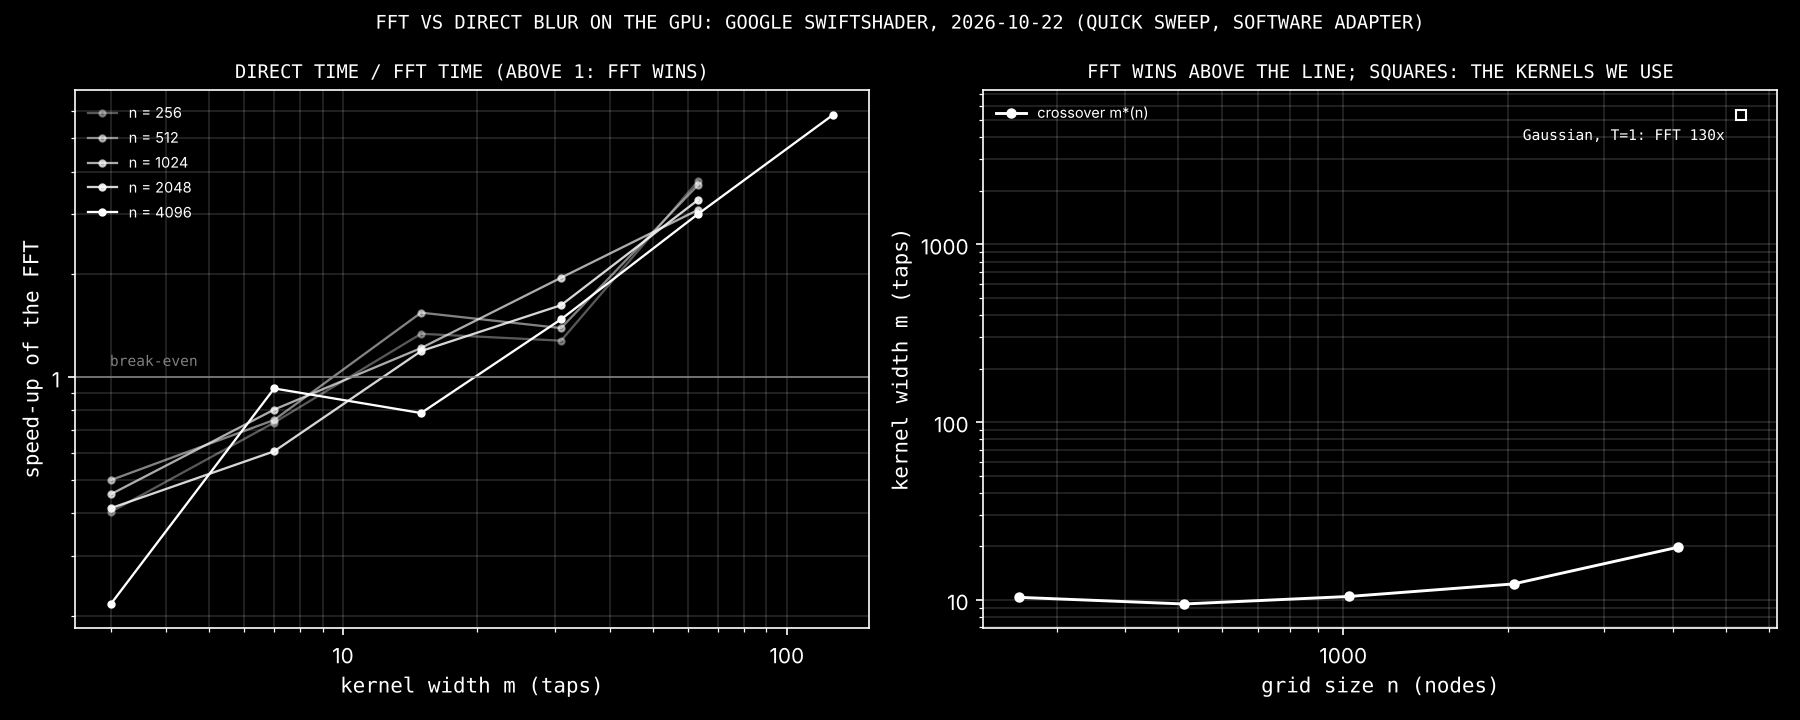
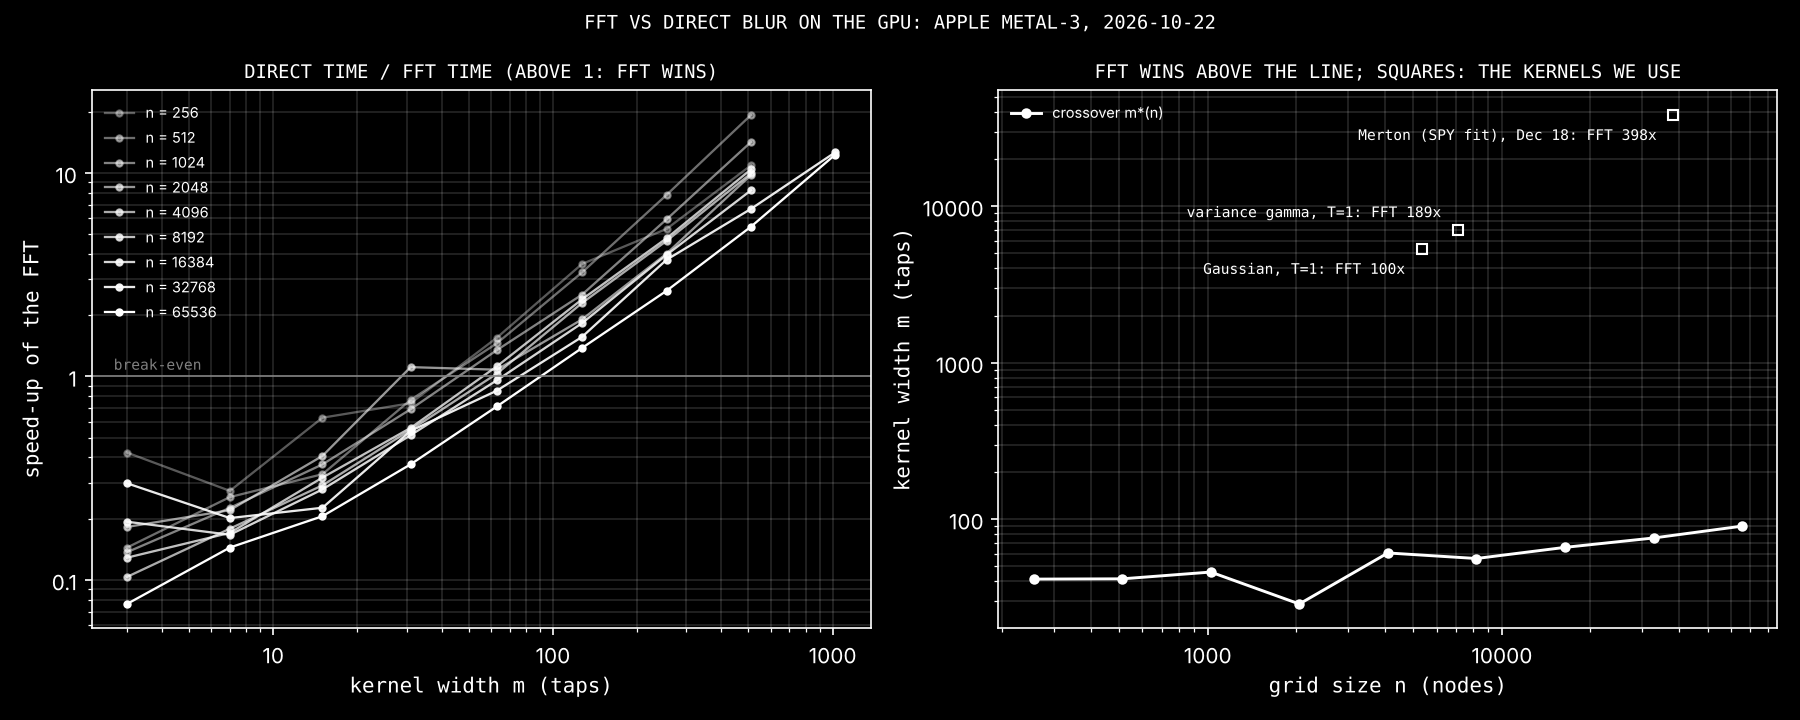
Kernels stage 3: Apple GPU benchmark, crossover plot, two-level sums in the direct blur
- reference/fft_bench_apple.json (Alek's Mac, apple metal-3): the FFT is
  faster from m ~ 30-90 taps (grows slowly with n); on the Stage 1 kernels'
  own grids it is 100x (Gaussian, 5341 taps), 189x (VG, 7087) and 398x
  (Merton SPY fit, 38289) faster than the direct blur. docs/fft_crossover.png
  redrawn from it.
- The Mac run missed 1e-4 on the Merton case (2.3e-4). Emulating the f32
  arithmetic put it on the direct side: the running sum of 1197 block sums
  drifts 1.85e-4, the FFT 5.6e-5. DIRECT_WGSL (gpu-fft.js) adds a second
  level of blocks (1024 taps): 3.2e-5. ROWS_WGSL and the barrier path are
  unchanged.
- /check.html: the 38289-tap Merton grid as a seventh case (passes, 6.1e-5).

Claude-Session: https://claude.ai/code/session_015xK1AWsMK2ae9zSpzi5rFb

Changed region(s): [[0.0311, 0.0917, 0.9956, 0.9778], [0.2178, 0.0, 0.7778, 0.0611], [0.1867, 0.9472, 0.3422, 0.9778]]

diff --git a/src/fft-check.js b/src/fft-check.js
@@ -6,7 +6,8 @@ import { fftBlurGPU, directBlurGPU } from "./gpu-fft.js";
 import { fftSize } from "./fft.js";
 import { payoffRows, fatKernel, sentinelRow } from "./fft-cases.js";
 
-// grid nodes n, kernel taps m, spacing dx in ln S (S0 = 100 at the center)
+// grid nodes n, kernel taps m, spacing dx in ln S (S0 = 100 at the center), rows
+const ROWS = 16;
 const CASES = [
   { n: 1001, m: 3, dx: 0.001 },
   { n: 1001, m: 401, dx: 0.001 },
@@ -14,8 +15,8 @@ const CASES = [
   { n: 4097, m: 4097, dx: 0.001 },
   { n: 5341, m: 5341, dx: 0.001 }, // kernels.py's Gaussian grid at T=1: +/-2.67 in ln S
   { n: 7087, m: 7087, dx: 0.001 }, // its variance gamma grid at T=1: +/-3.56
+  { n: 38289, m: 38289, dx: 0.000189, rows: 2 }, // its Merton grid for the SPY fit, Dec 18: +/-3.62
 ];
-const ROWS = 16;
 
 const maxAbs = (a) => a.reduce((s, v) => Math.max(s, Math.abs(v)), 0);
 const maxDiff = (a, b) => a.reduce((s, v, i) => Math.max(s, Math.abs(v - b[i])), 0);
@@ -33,31 +34,31 @@ export async function fftChecks(log, TOL) {
     if (!ok) fails++;
     log(`${ok ? "PASS" : "FAIL"} ${s}`);
   };
-  log(`${ROWS} rows per case: calls and puts, strikes 74 to 135, S0 = 100 at the middle node.`);
+  log(`${ROWS} rows per case (2 on the widest): calls and puts, strikes 74 to 135, S0 = 100 at the middle node.`);
   log("The FFT blurs each row minus its a + b S part (fft.js). Pass: |fft - direct| < 1e-4 near the");
   log("money (spots S0/2 to 2 S0, where prices are read) and, over the whole grid, |fft - exact| < 1e-4");
   log("on nodes worth up to S0 and < 1e-6 of the value on deep in-the-money nodes worth more ('scaled').");
   log("32-bit floats can't hold 1e-4 on those: one f32 step at 3383 is 2.4e-4. exact = blur() in 64-bit.");
   let plain = null;
   const scaledErr = (a, ex) => a.reduce((s, v, i) => Math.max(s, Math.abs(v - ex[i]) / Math.max(1, Math.abs(ex[i]) / 100)), 0);
-  for (const { n, m, dx } of CASES) {
-    const { F, center } = payoffRows({ n, dx, rows: ROWS });
+  for (const { n, m, dx, rows = ROWS } of CASES) {
+    const { F, center } = payoffRows({ n, dx, rows });
     const k = fatKernel(m);
     const t0 = performance.now();
-    const fft = await fftBlurGPU(F, ROWS, n, k, { dx });
-    const dir = await directBlurGPU(F, ROWS, n, k);
+    const fft = await fftBlurGPU(F, rows, n, k, { dx });
+    const dir = await directBlurGPU(F, rows, n, k);
     const ms = performance.now() - t0;
-    const ex = exact(F, ROWS, n, k);
+    const ex = exact(F, rows, n, k);
     const w = Math.round(Math.LN2 / dx);
     let near = 0;
-    for (let r = 0; r < ROWS; r++) {
+    for (let r = 0; r < rows; r++) {
       for (let i = Math.max(0, center - w); i <= Math.min(n - 1, center + w); i++) near = Math.max(near, Math.abs(fft[r * n + i] - dir[r * n + i]));
     }
     const sf = scaledErr(fft, ex);
-    line(near < TOL && sf < TOL, `n=${String(n).padEnd(5)} m=${String(m).padEnd(5)} N=${String(fftSize(n, m)).padEnd(6)}` +
+    line(near < TOL && sf < TOL, `n=${String(n).padEnd(5)} m=${String(m).padEnd(5)} N=${String(fftSize(n, m)).padEnd(7)}` +
       `payoffs to ${maxAbs(F).toFixed(0).padStart(4)}  near: |fft-direct| ${e(near)}` +
       `  whole grid, scaled: |fft-exact| ${e(sf)}, |direct-exact| ${e(scaledErr(dir, ex))}  (${ms.toFixed(0)} ms)`);
-    if (n === CASES.at(-1).n) plain = scaledErr(await fftBlurGPU(F, ROWS, n, k), ex);
+    if (n === CASES.at(-1).n) plain = scaledErr(await fftBlurGPU(F, rows, n, k), ex);
   }
   log(`without the split, the same FFT on the last case: whole grid, scaled |fft-exact| ${e(plain)}` +
     " (the 32-bit error of the biggest payoffs spreads to every node)");

diff --git a/src/gpu-fft.js b/src/gpu-fft.js
@@ -3,9 +3,9 @@
 // One submit does: pack the rows (reflected edges written out, two real rows
 // per complex row, the reversed kernel as one more row), forward FFT of all
 // of them, multiply by the kernel's transform, inverse FFT, unpack.
-// The direct blur it is compared with is ROWS_WGSL from gpu.js, the shader the
-// barrier step-pricer already uses (blocked sums, odd-reflection edges).
-import { context, storage, uniform, readback, groups, ROWS_WGSL } from "./gpu.js";
+// The direct blur it is compared with is DIRECT_WGSL below: ROWS_WGSL from
+// gpu.js (the barrier step-pricer's shader) with a second level of blocking.
+import { context, storage, uniform, readback, groups } from "./gpu.js";
 import { fftSize, radices, twiddles, expSplit, expBlur } from "./fft.js";
 
 const WG = 64;
@@ -150,6 +150,57 @@ fn main(@builtin(global_invocation_id) gid: vec3<u32>) {
 }
 `;
 
+// ROWS_WGSL with sums in blocks of 32 taps, blocks summed in super-blocks of
+// 1024, super-blocks summed last. One level of blocks is enough for the
+// barrier kernels (~1600 taps), but on the 38k-tap Merton kernel the running
+// sum of 1200 block sums drifts by ~2e-4 (measured on the Mac). Two levels
+// keep it near 3e-5 at the same speed.
+export const DIRECT_WGSL = /* wgsl */ `
+struct Params { n: u32, rows: u32, half: u32, p0: u32 }
+const BLOCK = 32u;
+const SUPER = 1024u;
+@group(0) @binding(0) var<uniform> p: Params;
+@group(0) @binding(1) var<storage, read> f: array<f32>;
+@group(0) @binding(2) var<storage, read> k: array<f32>;
+@group(0) @binding(3) var<storage, read_write> out: array<f32>;
+
+fn at(row: u32, i: i32) -> f32 {
+  let n = i32(p.n);
+  let b = row * p.n;
+  if (i < 0) { return 2.0 * f[b] - f[b + u32(-i)]; }
+  if (i >= n) { return 2.0 * f[b + u32(n - 1)] - f[b + u32(2 * (n - 1) - i)]; }
+  return f[b + u32(i)];
+}
+
+@compute @workgroup_size(64)
+fn main(@builtin(global_invocation_id) gid: vec3<u32>, @builtin(num_workgroups) nwg: vec3<u32>) {
+  let t = gid.x + gid.y * nwg.x * 64u;
+  let row = t / p.n;
+  let i = t % p.n;
+  if (row >= p.rows) { return; }
+  let m = 2u * p.half + 1u;
+  let base = i32(i) - i32(p.half);
+  let interior = base >= 0 && base + i32(m) <= i32(p.n);
+  var s = 0.0;
+  for (var J0 = 0u; J0 < m; J0 += SUPER) {
+    let J1 = min(J0 + SUPER, m);
+    var sb = 0.0;
+    for (var j0 = J0; j0 < J1; j0 += BLOCK) {
+      let j1 = min(j0 + BLOCK, J1);
+      var b = 0.0;
+      for (var j = j0; j < j1; j++) {
+        var v: f32;
+        if (interior) { v = f[row * p.n + u32(base) + j]; } else { v = at(row, base + i32(j)); }
+        b += k[j] * v;
+      }
+      sb += b;
+    }
+    s += sb;
+  }
+  out[row * p.n + i] = s;
+}
+`;
+
 function checkShape(rows, n, m) {
   if (m % 2 !== 1) throw new Error("kernel length must be odd");
   if ((m - 1) / 2 >= n) throw new Error("kernel wider than grid; widen the grid");
@@ -252,12 +303,12 @@ export async function fftBlurJob({ F, rows, n, kernel, N, dx }) {
   };
 }
 
-// The same rows blurred directly (ROWS_WGSL: n m taps per row), same interface.
+// The same rows blurred directly (DIRECT_WGSL: n m taps per row), same interface.
 export async function directBlurJob({ F, rows, n, kernel }) {
   const m = kernel.length;
   checkShape(rows, n, m);
   const { device, pipelineFor } = await context();
-  const pipe = pipelineFor(ROWS_WGSL);
+  const pipe = pipelineFor(DIRECT_WGSL);
   const bufs = {
     u: uniform(device, new Uint32Array([n, rows, (m - 1) / 2, 0])),
     f: storage(device, Float32Array.from(F)),

diff --git a/reference/plot_fft_crossover.py b/reference/plot_fft_crossover.py
@@ -51,10 +51,10 @@ cr = [c for c in d["crossover"] if c["mStar"] is not None]
 n = np.array([c["n"] for c in cr])
 ms = np.array([c["mStar"] for c in cr])
 ax.loglog(n, ms, "-o", color="white", lw=1.4, ms=4, label="crossover m*(n)")
-for c in d.get("realistic", []):
+for i, c in enumerate(d.get("realistic", [])):
     ax.plot(c["n"], c["m"], "s", color="white", ms=5, mfc="none")
     ax.annotate(f"{c['what']}: FFT {c['directMs'] / c['fftMs']:.0f}x", (c["n"], c["m"]),
-                textcoords="offset points", xytext=(-8, -12), ha="right", color="white",
+                textcoords="offset points", xytext=(-8, 6 if i % 2 else -12), ha="right", color="white",
                 fontsize=7, family="monospace")
 ax.set_title("FFT WINS ABOVE THE LINE; SQUARES: THE KERNELS WE USE", **mono)
 ax.set_xlabel("grid size n (nodes)", family="monospace")
